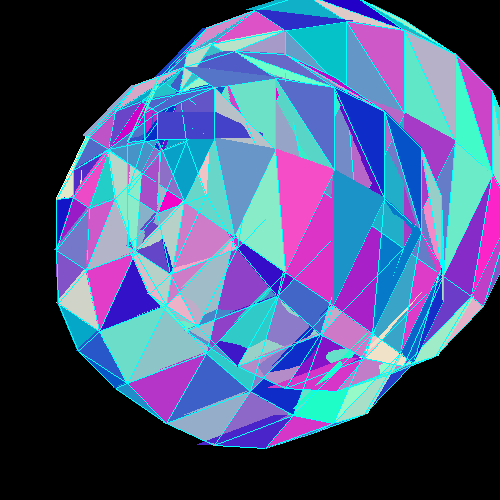
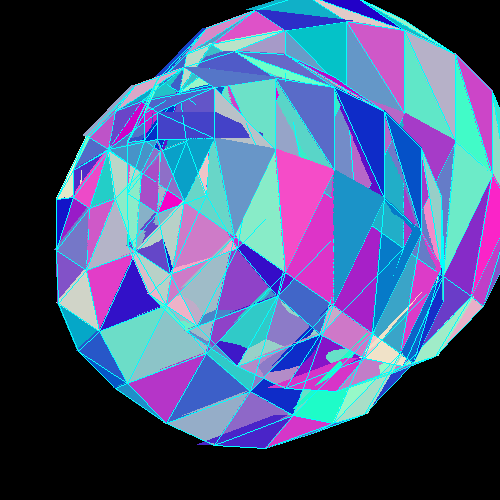
test

diff --git a/display.c b/display.c
@@ -93,7 +93,7 @@ void plot( screen s, color c, int x, int y, int z, struct matrix *zbuffer) {
     c.green = 0;
   }
 		     
-  if ( x >= 0 && x < XRES && newy >=0 && newy < YRES && zbuffer->m[x][newy] <= z){
+  if ( x >= 0 && x < XRES && newy >=0 && newy < YRES && z > zbuffer->m[x][newy]){
     s[x][newy] = c;
     zbuffer->m[x][newy] = z;
   }
